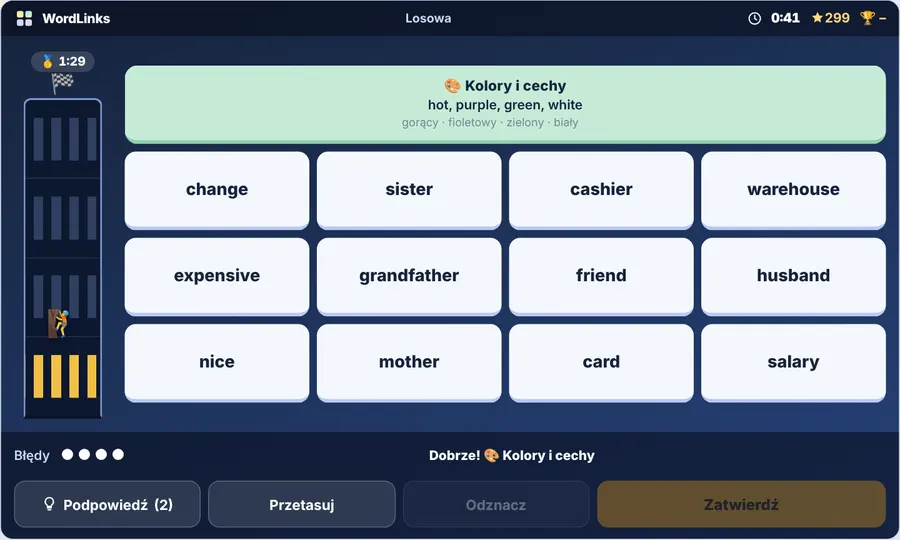
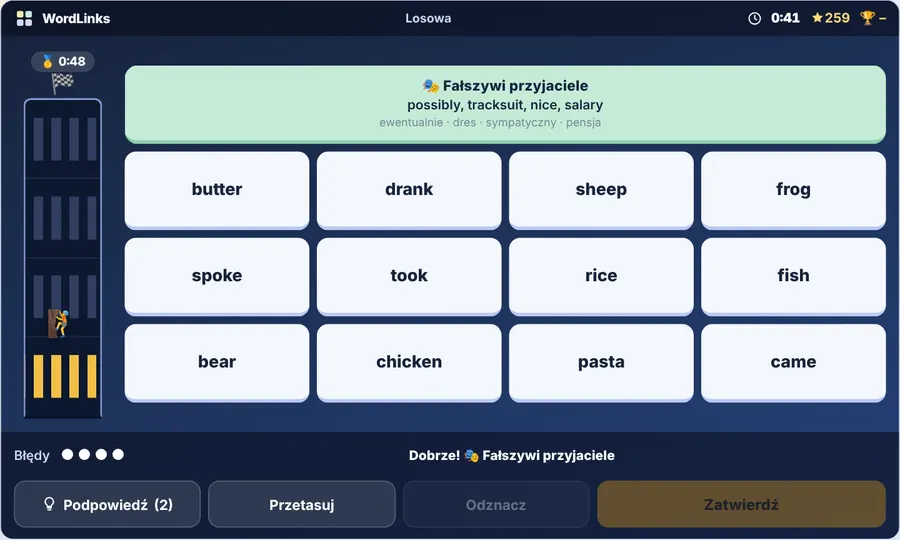
Jednolite karty wszystkich gier: card-wc/wl/el.webp z tests/card_shots.py, reguła w CLAUDE.md
Claude-Session: https://claude.ai/code/session_01MyUW9fQB8JttoV36Ji4mpt

diff --git a/index.html b/index.html
@@ -1330,9 +1330,9 @@ function streakNow(){const st=SV.st;if(!st)return 0;const y=new Date();y.setDate
 function wod(){const all=[];CATS.forEach(c=>{if(c.l)c.w.forEach(w=>all.push(w))});const d=new Date(),n=Math.floor(new Date(d.getFullYear(),d.getMonth(),d.getDate())/864e5);return all[(n*7919)%all.length]}
 function mstat(ws){let m=0,l=0,n=0;ws.forEach(w=>{const x=SV.m[w[0]+'='+w[1]];if(!x||(!x.r&&!x.w))n++;else if(x.b>=4)m++;else l++});return{m,l,n,t:ws.length}}
 const GAMES=[
- {n:'WordCraft',k:'wc',e:'cube',d:'Kop, skacz i zbieraj słówka w świecie z bloków. Bossowie, jaskinie, quizy i układanie zdań.',on:1,feat:1,img:'assets/hero-game.webp',go:'openGame()'},
- {n:'WordLinks',k:'wl',e:'grid',d:'Znajdź 4 grupy po 4 słówka z tej samej kategorii. Codziennie nowa łamigłówka i wyzwanie na najlepszy czas.',on:1,feat:1,rev:1,img:'assets/wordlinks-card.webp',go:"show('conn')"},
- {n:'WordElf',k:'el',e:'gift',d:'Pomóż skrzatowi spakować prezenty z listy Mikołaja. Gdy worek jest pełny, sanie odlatują!',on:1,feat:1,img:'assets/wordelf.webp',go:"show('elf')"},
+ {n:'WordCraft',k:'wc',e:'cube',d:'Kop, skacz i zbieraj słówka w świecie z bloków. Bossowie, jaskinie, quizy i układanie zdań.',on:1,feat:1,img:'assets/card-wc.webp',go:'openGame()'},
+ {n:'WordLinks',k:'wl',e:'grid',d:'Znajdź 4 grupy po 4 słówka z tej samej kategorii. Codziennie nowa łamigłówka i wyzwanie na najlepszy czas.',on:1,feat:1,rev:1,img:'assets/card-wl.webp',go:"show('conn')"},
+ {n:'WordElf',k:'el',e:'gift',d:'Pomóż skrzatowi spakować prezenty z listy Mikołaja. Gdy worek jest pełny, sanie odlatują!',on:1,feat:1,img:'assets/card-el.webp',go:"show('elf')"},
  {n:'Słowny Ninja',e:'target',d:'Przecinaj palcem właściwe tłumaczenia, zanim spadną.'},
  {n:'Słowostwory',e:'star',d:'Zbieraj stworki za opanowane słówka i walcz nimi z wrogami.'}];
 

diff --git a/tests/card_shots.py b/tests/card_shots.py
@@ -1,0 +1,26 @@
+"""Obrazki kafli gier na stronie głównej -> assets/card-<gra>.webp (800x480, 5:3, wycinek planszy gry bez ramki).
+Każda nowa gra: dopisz tu zrzut jej planszy (.gstage) i użyj assets/card-<gra>.webp w GAMES[].img."""
+import pathlib,io
+from playwright.sync_api import sync_playwright
+from PIL import Image
+R=pathlib.Path(__file__).resolve().parent.parent;URL='file://'+str(R/'index.html');A=R/'assets'
+def save(png,name,inset=3):
+    im=Image.open(io.BytesIO(png)).convert('RGB');w,h=im.size;im=im.crop((inset,inset,w-inset,h-inset));w,h=im.size
+    k=min(w/5,h/3);cw,ch=int(5*k),int(3*k);x,y=(w-cw)//2,(h-ch)//2;im=im.crop((x,y,x+cw,y+ch)).resize((800,480),Image.LANCZOS)
+    im.save(A/('card-'+name+'.webp'),'WEBP',quality=84,method=6);print(name,(A/('card-'+name+'.webp')).stat().st_size//1024,'kB')
+HF="document.querySelectorAll('.gs-foot button,.gbar').forEach(b=>b.style.display='none')"
+with sync_playwright() as pw:
+    br=pw.chromium.launch();pg=br.new_page(viewport={'width':1000,'height':900},device_scale_factor=1.6);errs=[];pg.on('pageerror',lambda e:errs.append(str(e)))
+    pg.goto(URL);pg.wait_for_timeout(2500);pg.evaluate("localStorage.clear()");pg.reload();pg.wait_for_timeout(2500)
+    pg.evaluate("document.getElementById('pt').style.visibility='hidden'")
+    pg.evaluate("show('game');openGame();start(0)");pg.wait_for_timeout(1200);pg.keyboard.press('t');pg.wait_for_timeout(1800)
+    save(pg.locator('#wrap').screenshot(),'wc',0)
+    pg.evaluate("show('conn');cnMode('random')");pg.wait_for_timeout(300);pg.click('.cn-start .pri');pg.wait_for_timeout(200)
+    pg.evaluate("CN.sel=CN.tiles.map((t,i)=>t.g===CN.tiles[0].g?i:-1).filter(i=>i>=0);cnSubmit()");pg.wait_for_timeout(700)
+    pg.evaluate("CN.t0=Date.now()-41000;document.getElementById('cn-time').textContent=cnFmt(41000)")
+    pg.evaluate(HF);save(pg.locator('#v-conn .gstage').screenshot(),'wl')
+    pg.evaluate("show('elf');elLvl('A2')");pg.click('.el-start .pri');pg.wait_for_timeout(200)
+    for _ in range(2):
+        i=pg.evaluate("EL.shelf.findIndex(s=>!s.used&&EL.list.some(e=>e.k===s.k&&e.got<e.need))");pg.locator('button.el-it').nth(i).click();pg.wait_for_timeout(700)
+    pg.evaluate(HF);save(pg.locator('#v-elf .gstage').screenshot(),'el')
+    print('OK',errs)

diff --git a/CLAUDE.md b/CLAUDE.md
@@ -3,6 +3,7 @@
 - Hosting: GitHub Pages (push na `main`). Odpowiedzi i interfejs po polsku.
 - Ikony: cały nowy interfejs używa SVG ze sprite'a `ic('nazwa','klasa')` (kreskowe, 24px); kolory `.ok/.bad/.wait/.warn/.pt`. Emoji tylko jako treść (kategorie, medale, odznaki, grafika gier, tekst udostępniania).
 - Gry używają ramki `.gstage/.gs-hud/.gs-body/.gs-foot/.gbar/.gtips` (wzór: renderConn).
-- Każda nowa gra MUSI mieć (jak WordCraft, WordLinks, WordElf): punkty i rangi (progi + `rankPanel` w profilu), ranking w `wbHtml` (przełącznik gry, tydzień/ogółem/moja grupa) na stronie głównej i w profilu, tabelę wyników i RPC `<gra>_award/_my_points/_pts_board` (RLS, security definer, execute tylko dla authenticated), synchronizację punktów po zalogowaniu, panel `gpanel` w profilu, kartę z grafiką na stronie głównej, slajd w karuzeli, zakładkę w „Jak to działa”, przycisk w menu i test w `tests/`.
+- Każda nowa gra MUSI mieć (jak WordCraft, WordLinks, WordElf): punkty i rangi (progi + `rankPanel` w profilu), ranking w `wbHtml` (przełącznik gry, tydzień/ogółem/moja grupa) na stronie głównej i w profilu, tabelę wyników i RPC `<gra>_award/_my_points/_pts_board` (RLS, security definer, execute tylko dla authenticated), synchronizację punktów po zalogowaniu, panel `gpanel` w profilu, kartę z grafiką na stronie głównej (jednolity styl, patrz niżej), slajd w karuzeli, zakładkę w „Jak to działa”, przycisk w menu i test w `tests/`.
 - Poradnik korepetytora (zakładka „Poradnik” w panelu, `helpHTML()`): przy każdej nowej funkcji lub grze dopisz/zmień jego sekcję i odśwież zrzuty (`python3 tests/teacher_test.py && python3 tests/help_shots.py && python3 tests/make_help_assets.py`), obrazki trafiają do `assets/help/`.
 - Posty promocyjne zapisuj w `marketing/posty/RRRR-MM-DD-platforma-temat/` (grafika.png, opis.txt, zrodlo.html), zasady w `marketing/README.md`.
+- Karty gier na stronie głównej mają jeden styl: obrazek `assets/card-<gra>.webp` 800x480 (5:3) to wycinek planszy gry (`.gstage`) bez ramki, bez przycisków na dole, generowany skryptem `python3 tests/card_shots.py` (dopisz tam zrzut nowej gry); w `GAMES[]` dajesz `k:'<skrót>'` i `img`, a kolor gry ustawiasz w CSS jako `.gc.g-<skrót>{--g;--gt;--gd}` (+ `.cn-seg button.on.g-<skrót>`, `.gpn.g-<skrót>`). Nie używaj innych proporcji ani `object-fit:contain`; znacznik „Dostępna” stoi nad kolumną tekstu.

diff --git a/.claude/agents/projektant.md b/.claude/agents/projektant.md
@@ -22,3 +22,5 @@ Każda gra w WordLand używa tej samej ramki, żeby portal wyglądał spójnie:
 
 ## Każda nowa gra ma ranking (obowiązkowe)
 Nowa gra jest skończona dopiero z: punktami i rangami, rankingiem (przełącznik gry w `wbHtml`: tydzień/ogółem/moja klasa) na stronie głównej, w profilu i pod grą, panelem `gpanel` i `rankPanel` w profilu, kartą z grafiką na stronie głównej, slajdem w karuzeli i opisem w „Jak to działa”. Wzór: WordElf (elf_award, elf_my_points, elf_pts_board).
+
+Karty gier na stronie głównej: obrazek assets/card-<gra>.webp 800x480 (5:3), wycinek planszy .gstage z tests/card_shots.py, kolor gry przez .gc.g-<skrót> (--g/--gt/--gd). Bez innych proporcji i bez object-fit:contain.
